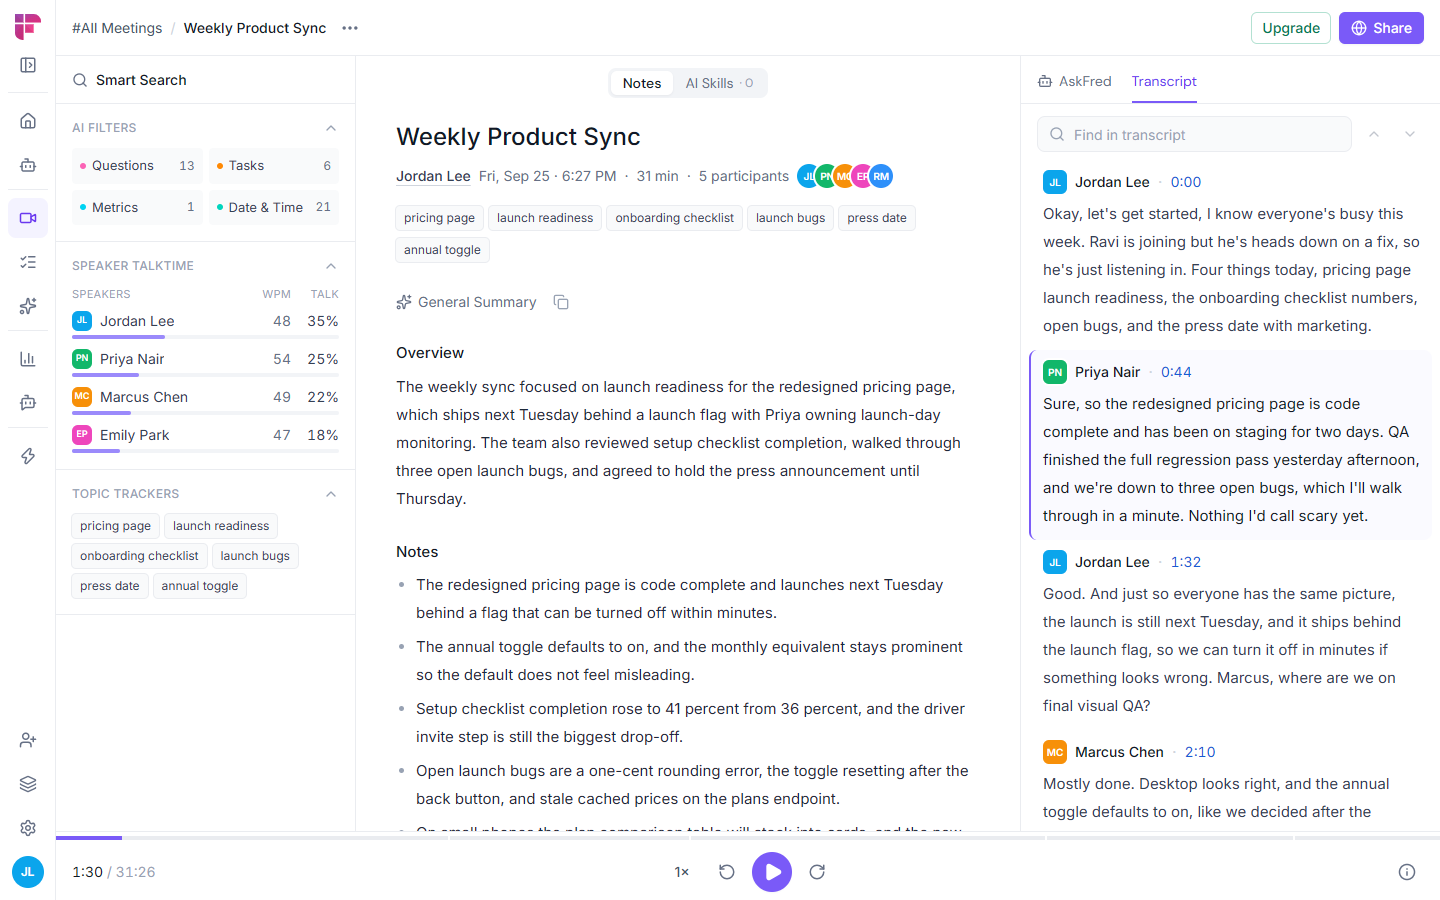
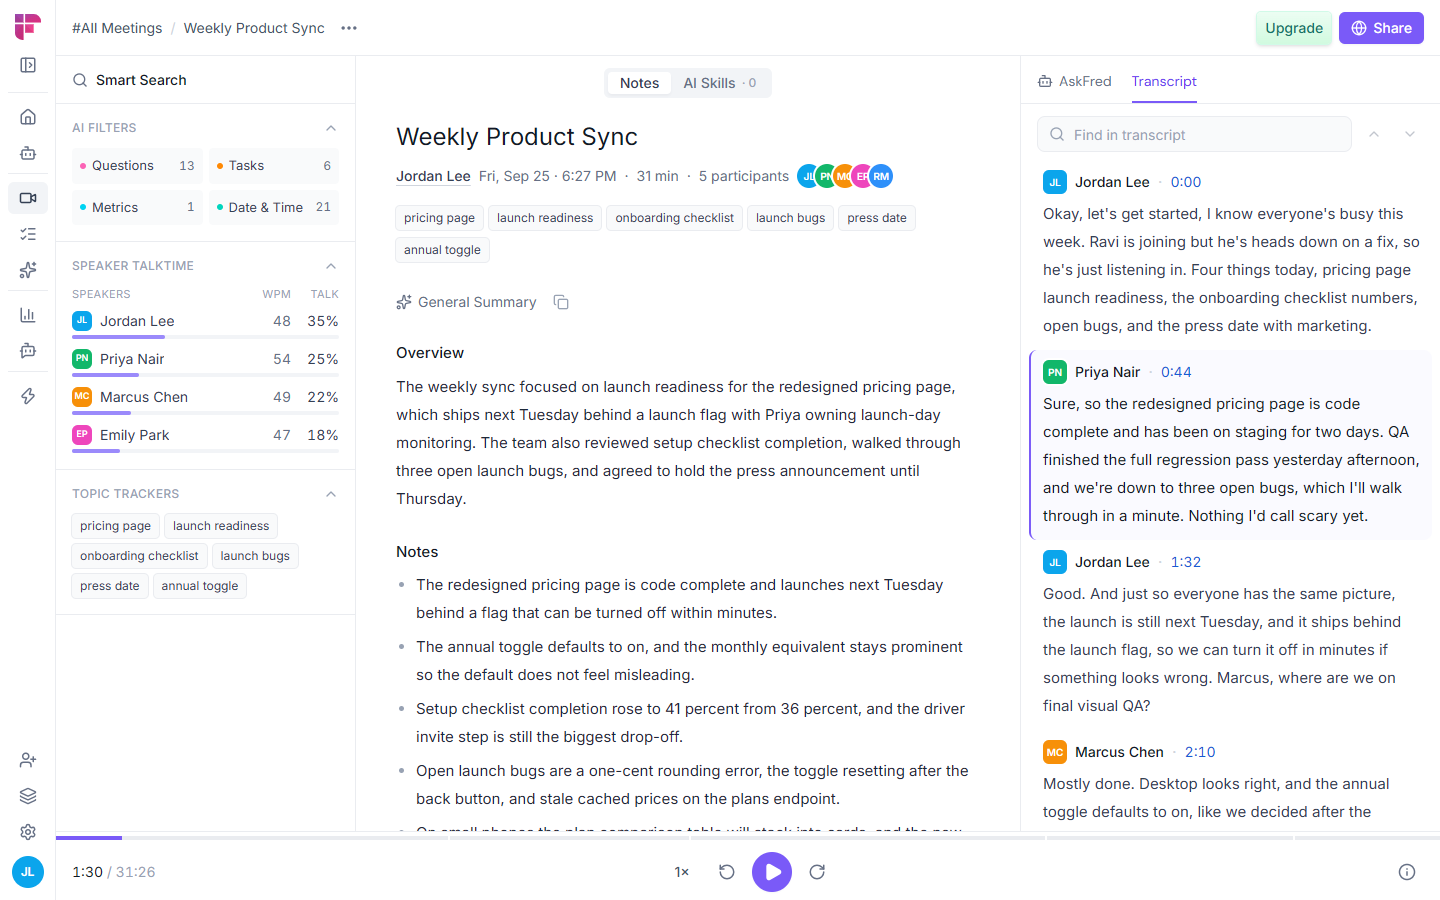
docs: dark and light screenshots of every main screen

diff --git a/README.md b/README.md
@@ -13,16 +13,24 @@ The live app opens straight into a seeded workspace with eight realistic meeting
 
 ## Screenshots
 
-![Meeting page: Smart Search, AI notes, transcript synced to the player](docs/screenshots/meeting.png)
+Dark is the default theme; every screen also works in light (Settings → Appearance).
 
-| | |
-|---|---|
-| ![Home](docs/screenshots/home.png) **Home**: welcome, quick start, recent meetings | ![Meetings library](docs/screenshots/meetings.png) **Meetings**: channels, filters, AskFred panel |
-| ![Search across transcripts](docs/screenshots/search.png) **Search** matches titles, people and transcript text | ![Smart Search filter](docs/screenshots/smart-search.png) **Smart Search**: transcript narrowed to the 13 questions |
-| ![Transcript search](docs/screenshots/transcript-search.png) **Transcript search** with highlighted matches, "2 of 5" | ![Create a meeting](docs/screenshots/create-dialog.png) **Add a meeting** by upload or paste |
-| ![Tasks](docs/screenshots/tasks.png) **Tasks** from every meeting | ![Light theme](docs/screenshots/meeting-light.png) **Light theme** (Settings → Appearance) |
+![Meeting page: Smart Search, AI notes and a transcript synced to the player](docs/screenshots/meeting-dark.png)
 
-<p align="center"><img src="docs/screenshots/mobile-meeting.png" alt="Meeting page on a phone" width="260"><br><b>Phone</b>: Notes / Transcript / Insights tabs, player always reachable</p>
+| Screen | Dark | Light |
+|---|---|---|
+| **Home**<br>welcome banner, quick start, recent meetings | ![Home, dark](docs/screenshots/home-dark.png) | ![Home, light](docs/screenshots/home-light.png) |
+| **Meetings library**<br>channels, Filters pop-up (participants, topics, dates, source), AskFred | ![Meetings library, dark](docs/screenshots/filters-dark.png) | ![Meetings library, light](docs/screenshots/filters-light.png) |
+| **Search**<br>matches titles, people and transcript text, with the matching line | ![Search, dark](docs/screenshots/search-dark.png) | ![Search, light](docs/screenshots/search-light.png) |
+| **Meeting page**<br>Smart Search, AI notes, transcript synced to the player | ![Meeting page, dark](docs/screenshots/meeting-dark.png) | ![Meeting page, light](docs/screenshots/meeting-light.png) |
+| **Action items**<br>grouped by person; complete, assign, edit, delete | ![Action items, dark](docs/screenshots/action-items-dark.png) | ![Action items, light](docs/screenshots/action-items-light.png) |
+| **Transcript search**<br>highlighted matches with next / previous | ![Transcript search, dark](docs/screenshots/transcript-search-dark.png) | ![Transcript search, light](docs/screenshots/transcript-search-light.png) |
+| **Add a meeting**<br>upload a .txt / .vtt / .json file or paste text | ![Add a meeting, dark](docs/screenshots/create-dialog-dark.png) | ![Add a meeting, light](docs/screenshots/create-dialog-light.png) |
+| **Edit a meeting**<br>title, date, participants (speakers are locked) | ![Edit a meeting, dark](docs/screenshots/edit-dialog-dark.png) | ![Edit a meeting, light](docs/screenshots/edit-dialog-light.png) |
+| **Tasks**<br>action items from every meeting | ![Tasks, dark](docs/screenshots/tasks-dark.png) | ![Tasks, light](docs/screenshots/tasks-light.png) |
+| **Settings**<br>Light / Dark / System theme picker | ![Settings, dark](docs/screenshots/settings-dark.png) | ![Settings, light](docs/screenshots/settings-light.png) |
+
+<p align="center"><img src="docs/screenshots/mobile-meeting-dark.png" alt="Meeting page on a phone" width="260"><br><b>Phone</b>: Notes / Transcript / Insights tabs, with the player always reachable</p>
 
 ## Contents
 
